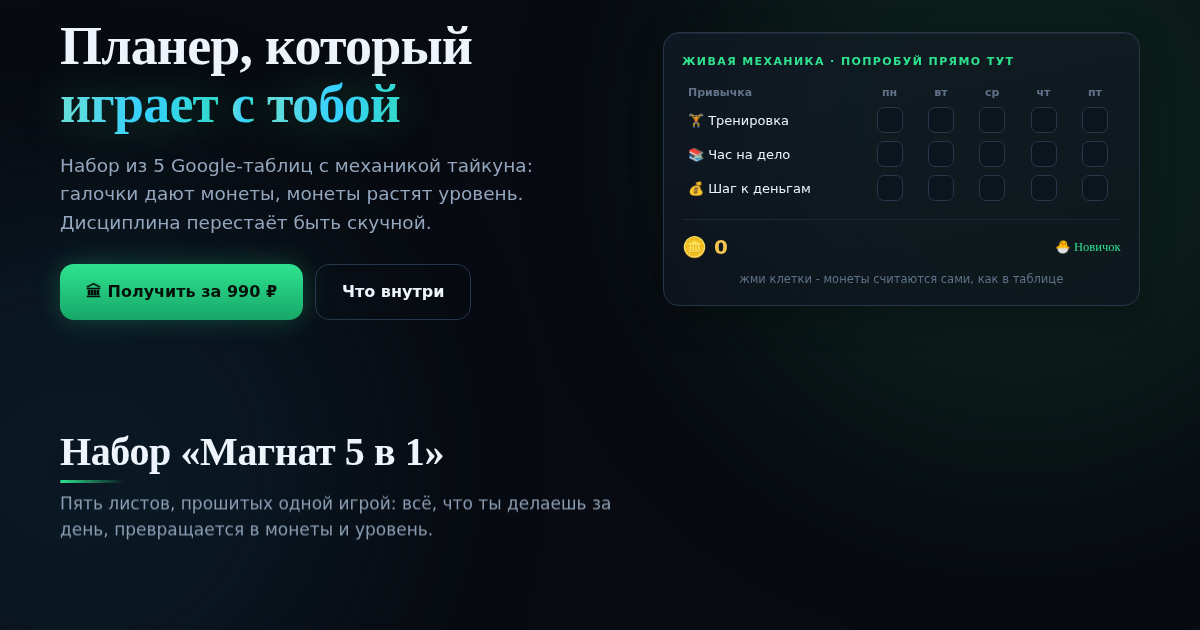
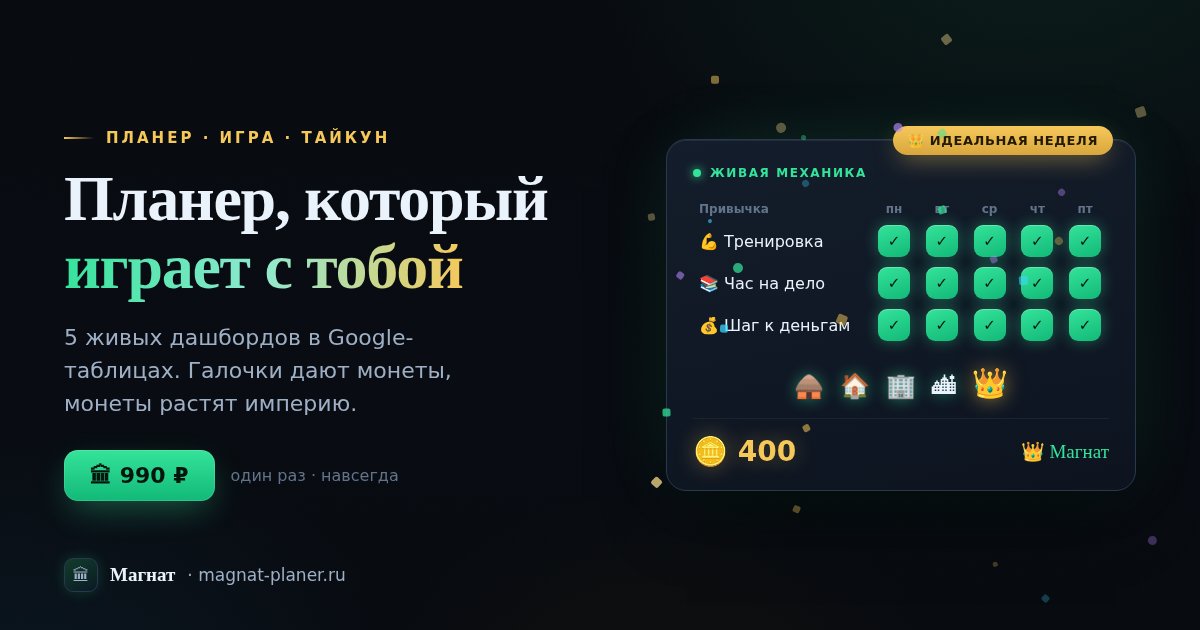
Эмоция продукта: демо-игра с империей, празднование уровней, новое OG
Лендинг - демо в hero стало полной мини-игрой:
- Монеты летят дугой в кошелёк при каждой галочке (Web Animations)
- 5 уровней в демо-масштабе: путь Новичок → Магнат за 15 кликов
- Мини-империя строится под таблицей: здания загораются с уровнями
- Level-up: пляшущий бейдж + конфетти; идеальная неделя = золотой салют
- Пульс-приглашение на первой клетке (исчезает после первого клика)
- Растущий skyline с парящей короной в финальном CTA
- Фикс: кнопка финала прилипала сбоку к заголовку (inline-элементы)

Приложение - дофамин ежедневного использования:
- Празднование нового уровня: оверлей со зданием + конфетти
  (пересечение уровня отслеживается в состоянии, первый рендер тихий)
- Монета летит в кошелёк при отметке привычки (чипы и календарь)
- Конфетти при покупке награды в магазине

Общее:
- og.png перерисован: состояние победы (Магнат, 400 монет, империя,
  идеальная неделя) вместо скриншота пустой таблицы с нулями
- ::selection и :focus-visible в фирменном изумруде на обеих страницах
- Уровни дисциплины откликаются на hover
- Все эффекты уважают prefers-reduced-motion

Claude-Session: https://claude.ai/code/session_01WrphPXi8zMQQBwtpcqwAAq

diff --git a/index.html b/index.html
@@ -40,6 +40,8 @@
   }
   *{box-sizing:border-box; margin:0; padding:0}
   html{scroll-behavior:smooth}
+  ::selection{background:#34e39a3d; color:var(--ink);}
+  :focus-visible{outline:2px solid var(--emerald); outline-offset:2px; border-radius:4px;}
   body{background:var(--bg); color:var(--ink); font-family:var(--fb); line-height:1.55;
     -webkit-font-smoothing:antialiased; overflow-x:hidden; position:relative;}
   body::before{content:""; position:fixed; inset:0; z-index:-2; pointer-events:none;
@@ -156,9 +158,17 @@
   @keyframes bump{40%{transform:scale(1.24)}}
   .demo .lvl{font-size:12.5px; color:var(--emerald); font-family:var(--fd);}
   .demo .hint{font-size:11.5px; color:var(--mut2); margin-top:9px; text-align:center;}
-  .fly{position:absolute; font-size:13px; font-weight:800; color:var(--gold); pointer-events:none; z-index:5;
-    animation:flyup .85s ease-out forwards; text-shadow:0 0 10px #f6c85a99;}
-  @keyframes flyup{0%{opacity:0; transform:translateY(4px) scale(.8)} 25%{opacity:1} 100%{opacity:0; transform:translateY(-38px) scale(1.18)}}
+  /* мини-империя в демо: здания загораются с уровнями */
+  .demo .emp{display:flex; justify-content:center; align-items:flex-end; gap:12px; margin-top:13px;}
+  .demo .emp i{font-style:normal; font-size:17px; line-height:1; filter:grayscale(1); opacity:.25;
+    transition:filter .45s, opacity .45s;}
+  .demo .emp i.on{filter:none; opacity:1; text-shadow:0 0 13px #34e39a66;}
+  .demo .emp i.pop, .demo .lvl.pop{animation:epop .65s var(--ease);}
+  @keyframes epop{35%{transform:scale(1.55) rotate(-6deg)}}
+  /* пульс-приглашение на первой клетке */
+  .cell.nudge::after{content:""; position:absolute; inset:-5px; border-radius:12px; border:2px solid var(--emerald);
+    animation:nudgep 1.7s ease-out infinite; pointer-events:none;}
+  @keyframes nudgep{0%{opacity:.9; transform:scale(.7)} 70%,100%{opacity:0; transform:scale(1.3)}}
 
   /* ====== планеры: КАРУСЕЛЬ карточек с рамкой «настоящей Google-таблицы» ====== */
   .pcarousel{position:relative; margin-top:34px;}
@@ -333,6 +343,7 @@
   .ladder .lv{background:linear-gradient(180deg,#0f1826,#0c111b); border:1px solid var(--line2); border-radius:13px; padding:16px 10px 14px; text-align:center; position:relative; overflow:hidden;
     transform:translateY(16px); opacity:0; transition:transform .6s var(--ease), opacity .6s ease; transition-delay:calc(var(--i,0)*90ms);}
   .disc.in .ladder .lv{transform:none; opacity:1;}
+  .disc.in .ladder .lv:hover{transform:translateY(-4px); border-color:#1c7a54; transition-delay:0s;}
   .ladder .lv .em{font-size:26px;}
   .ladder .lv .nm{font-family:var(--fd); font-size:14px; margin-top:6px;}
   .ladder .lv .cn{font-size:10.5px; color:var(--mut2); margin-top:3px; font-variant-numeric:tabular-nums;}
@@ -437,6 +448,15 @@
   .final{text-align:center; padding:92px 0;}
   .final h2{font-size:clamp(28px,5vw,46px);}
   .final .btn{margin-top:28px;}
+  /* растущий город: путь Новичок → Магнат одним взглядом */
+  .final .skyline{display:flex; justify-content:center; align-items:flex-end; gap:16px; margin-bottom:22px;}
+  .final .skyline i{font-style:normal; line-height:1; opacity:.45; filter:grayscale(.65);}
+  .final .skyline i:nth-child(1){font-size:20px}
+  .final .skyline i:nth-child(2){font-size:26px}
+  .final .skyline i:nth-child(3){font-size:32px}
+  .final .skyline i:nth-child(4){font-size:39px}
+  .final .skyline i:nth-child(5){font-size:47px; opacity:1; filter:none; text-shadow:0 0 30px #f6c85a77; animation:crownf 4.5s ease-in-out infinite;}
+  @keyframes crownf{50%{transform:translateY(-6px)}}
 
   footer{border-top:1px solid var(--line); padding:32px 0 36px; color:var(--mut2); font-size:12.5px; line-height:1.9; text-align:center;}
   footer .flinks{display:flex; flex-direction:column; gap:6px; margin-bottom:18px;}
@@ -542,11 +562,12 @@
       <tr><td class="nm">📚 Час на дело</td><td><span class="cell" data-c="25"></span></td><td><span class="cell" data-c="25"></span></td><td><span class="cell" data-c="25"></span></td><td><span class="cell" data-c="25"></span></td><td><span class="cell" data-c="25"></span></td></tr>
       <tr><td class="nm">💰 Шаг к деньгам</td><td><span class="cell" data-c="30"></span></td><td><span class="cell" data-c="30"></span></td><td><span class="cell" data-c="30"></span></td><td><span class="cell" data-c="30"></span></td><td><span class="cell" data-c="30"></span></td></tr>
     </table>
+    <div class="emp" id="dEmp"><i class="on">🛖</i><i>🏠</i><i>🏢</i><i>🏙</i><i>👑</i></div>
     <div class="tally">
       <div class="coins" id="dCoins">🪙 0</div>
       <div class="lvl" id="dLvl">🐣 Новичок</div>
     </div>
-    <div class="hint">жми клетки - монеты считаются сами, как в таблице</div>
+    <div class="hint" id="dHint">жми клетки - монеты капают, империя строится</div>
   </div></div>
 </div></header>
 
@@ -945,8 +966,9 @@
 </div></section>
 
 <section class="final"><div class="wrap">
+  <div class="skyline rv"><i>🛖</i><i>🏠</i><i>🏢</i><i>🏙</i><i>👑</i></div>
   <h2 class="rv uline">Хватит начинать с понедельника.<br>Начни строить империю сегодня.</h2>
-  <a href="#" class="btn btn-p rv" data-buy>🏛 Получить «Магнат»</a>
+  <div><a href="#" class="btn btn-p rv" data-buy>🏛 Получить «Магнат»</a></div>
 </div></section>
 
 <footer><div class="wrap">
@@ -1020,24 +1042,69 @@ var RM = matchMedia("(prefers-reduced-motion: reduce)").matches;
   }
 })();
 
-/* живая демо-сетка в hero */
+/* конфетти: DOM-частицы через Web Animations (без библиотек) */
+function confettiBurst(x,y,n,colors){
+  if(RM || !document.body.animate) return;
+  for(let i=0;i<n;i++){
+    let p=document.createElement("i"), s=4+Math.random()*5;
+    p.style.cssText="position:fixed;z-index:70;pointer-events:none;font-style:normal;left:"+x+"px;top:"+y+"px;width:"+s+"px;height:"+s+"px;border-radius:"+(Math.random()<.4?"50%":"2px")+";background:"+colors[i%colors.length];
+    document.body.appendChild(p);
+    let a=Math.random()*Math.PI*2, v=50+Math.random()*150,
+        dx=Math.cos(a)*v, dy=Math.sin(a)*v-85;
+    p.animate([
+      {transform:"translate(0,0) rotate(0deg)", opacity:1},
+      {transform:"translate("+dx+"px,"+(dy+175)+"px) rotate("+((Math.random()*2-1)*540)+"deg)", opacity:0}
+    ],{duration:950+Math.random()*500, easing:"cubic-bezier(.2,.6,.4,1)"}).onfinish=function(){ p.remove(); };
+  }
+}
+
+/* живая демо-игра в hero: монеты летят в кошелёк, империя строится, уровни празднуются */
 (function(){
-  var LVL=[["🐣 Новичок",0],["🚀 Стартапер",300],["💼 Предприниматель",1500]];
-  var coins=0, el=document.getElementById("dCoins"), lv=document.getElementById("dLvl");
-  document.querySelectorAll(".cell").forEach(function(c){
+  /* демо-шкала уровней: сжата, чтобы путь до Магната проживался за 15 кликов */
+  var LVL=[["🐣 Новичок",0],["🚀 Стартапер",100],["💼 Предприниматель",250],["🏢 Директор",350],["👑 Магнат",400]];
+  var coins=0, li=0;
+  var elC=document.getElementById("dCoins"), lv=document.getElementById("dLvl"),
+      hint=document.getElementById("dHint"),
+      emp=[].slice.call(document.querySelectorAll("#dEmp i"));
+  function flyCoin(from){
+    if(RM || !from.animate) return;
+    var r1=from.getBoundingClientRect(), r2=elC.getBoundingClientRect();
+    var c=document.createElement("div"); c.textContent="🪙";
+    c.style.cssText="position:fixed;z-index:70;pointer-events:none;font-size:14px;line-height:1;left:"+(r1.left+r1.width/2-8)+"px;top:"+(r1.top+r1.height/2-8)+"px;";
+    document.body.appendChild(c);
+    var dx=(r2.left+26)-(r1.left+r1.width/2), dy=(r2.top+r2.height/2)-(r1.top+r1.height/2);
+    c.animate([
+      {transform:"translate(0,0) scale(1)", opacity:1},
+      {transform:"translate("+(dx*.45)+"px,"+(dy*.45-46)+"px) scale(1.25)", offset:.55},
+      {transform:"translate("+dx+"px,"+dy+"px) scale(.45)", opacity:.3}
+    ],{duration:650, easing:"cubic-bezier(.25,.7,.3,1)"}).onfinish=function(){ c.remove(); };
+  }
+  var cells=[].slice.call(document.querySelectorAll(".cell"));
+  if(cells[0]) cells[0].classList.add("nudge");
+  cells.forEach(function(c){
     c.addEventListener("click", function(){
+      if(cells[0].classList.contains("nudge")) cells.forEach(function(x){x.classList.remove("nudge");});
       var v=parseInt(c.dataset.c,10);
       var on=c.classList.toggle("on");
       coins+=on?v:-v;
-      el.textContent="🪙 "+coins.toLocaleString("ru-RU");
-      el.classList.remove("bump"); void el.offsetWidth; el.classList.add("bump");
-      if(on && !RM){
-        var f=document.createElement("span"); f.className="fly"; f.textContent="+"+v;
-        f.style.left=(c.offsetLeft+2)+"px"; f.style.top=(c.offsetTop-6)+"px";
-        c.closest(".demo").appendChild(f); setTimeout(function(){f.remove()},870);
+      if(on) flyCoin(c);
+      elC.textContent="🪙 "+coins.toLocaleString("ru-RU");
+      elC.classList.remove("bump"); void elC.offsetWidth; elC.classList.add("bump");
+      var ni=0; for(var i=0;i<LVL.length;i++) if(coins>=LVL[i][1]) ni=i;
+      if(ni!==li){
+        var up=ni>li; li=ni;
+        lv.textContent=LVL[ni][0];
+        emp.forEach(function(e,k){ e.classList.toggle("on", k<=ni); });
+        if(up){
+          lv.classList.remove("pop"); void lv.offsetWidth; lv.classList.add("pop");
+          var slot=emp[ni]; slot.classList.remove("pop"); void slot.offsetWidth; slot.classList.add("pop");
+          var r=slot.getBoundingClientRect();
+          confettiBurst(r.left+r.width/2, r.top+r.height/2, ni===4?70:26,
+            ni===4 ? ["#f6c85a","#ffdf8e","#fff3d1","#d8a63d"]
+                   : ["#34e39a","#f6c85a","#3dd6ff","#b98bff"]);
+          if(ni===4 && hint) hint.innerHTML="👑 <b style=\"color:var(--gold)\">Идеальная неделя!</b> Представь это чувство каждый вечер.";
+        }
       }
-      var t=LVL[0][0]; for(var i=0;i<LVL.length;i++) if(coins>=LVL[i][1]) t=LVL[i][0];
-      lv.textContent=t;
     });
   });
 })();

diff --git a/app.html b/app.html
@@ -13,6 +13,8 @@
     --fd:Georgia,"Times New Roman",serif; --fb:system-ui,-apple-system,"Segoe UI",Roboto,sans-serif;
   }
   *{box-sizing:border-box; margin:0; padding:0}
+  ::selection{background:#2fe38f3d; color:var(--ink);}
+  :focus-visible{outline:2px solid var(--emerald); outline-offset:2px; border-radius:4px;}
   body{background:radial-gradient(1100px 620px at 82% -6%,#123044 0%,transparent 55%),radial-gradient(800px 560px at 6% 3%,#0f2a20 0%,transparent 55%),linear-gradient(180deg,var(--bg2),var(--bg));
     color:var(--ink); font-family:var(--fb); line-height:1.45; -webkit-font-smoothing:antialiased; min-height:100vh; padding-bottom:80px;}
   .wrap{max-width:1120px; margin:0 auto; padding:0 16px;}
@@ -226,6 +228,53 @@ const monthEntries=()=>S.finance.entries.filter(e=>e.date.slice(0,7)===CURMONTH)
 
 let toastT; function toast(m){const t=document.getElementById("toast");t.textContent=m;t.classList.add("show");clearTimeout(toastT);toastT=setTimeout(()=>t.classList.remove("show"),1900);}
 
+// ---- эмоции: конфетти, полёт монеты, празднование уровня ----
+const RM=matchMedia("(prefers-reduced-motion: reduce)").matches;
+function confettiBurst(x,y,n,colors){
+  if(RM || !document.body.animate) return;
+  for(let i=0;i<n;i++){
+    const p=document.createElement("i"), s=4+Math.random()*5;
+    p.style.cssText=`position:fixed;z-index:80;pointer-events:none;font-style:normal;left:${x}px;top:${y}px;width:${s}px;height:${s}px;border-radius:${Math.random()<.4?"50%":"2px"};background:${colors[i%colors.length]}`;
+    document.body.appendChild(p);
+    const a=Math.random()*Math.PI*2, v=50+Math.random()*160,
+          dx=Math.cos(a)*v, dy=Math.sin(a)*v-90;
+    p.animate([
+      {transform:"translate(0,0) rotate(0deg)", opacity:1},
+      {transform:`translate(${dx}px,${dy+180}px) rotate(${(Math.random()*2-1)*540}deg)`, opacity:0}
+    ],{duration:950+Math.random()*500, easing:"cubic-bezier(.2,.6,.4,1)"}).onfinish=()=>p.remove();
+  }
+}
+function flyCoinToWallet(fromEl){
+  const w=document.getElementById("wallet"); if(RM||!w||!fromEl.animate) return;
+  const chip=w.closest(".chip"), r1=fromEl.getBoundingClientRect(), r2=chip.getBoundingClientRect();
+  const c=document.createElement("div"); c.textContent="🪙";
+  c.style.cssText=`position:fixed;z-index:80;pointer-events:none;font-size:15px;line-height:1;left:${r1.left+r1.width/2-8}px;top:${r1.top+r1.height/2-8}px;`;
+  document.body.appendChild(c);
+  const dx=(r2.left+r2.width/2)-(r1.left+r1.width/2), dy=(r2.top+r2.height/2)-(r1.top+r1.height/2);
+  c.animate([
+    {transform:"translate(0,0) scale(1)", opacity:1},
+    {transform:`translate(${dx*.45}px,${dy*.45-48}px) scale(1.3)`, offset:.55},
+    {transform:`translate(${dx}px,${dy}px) scale(.4)`, opacity:.3}
+  ],{duration:620, easing:"cubic-bezier(.25,.7,.3,1)"}).onfinish=()=>{
+    c.remove();
+    if(chip.animate) chip.animate([{transform:"scale(1)"},{transform:"scale(1.16)"},{transform:"scale(1)"}],{duration:260});
+  };
+}
+function celebrateLevel(li){
+  const [name,,emoji]=LEVELS[li];
+  const ovl=el(`<div class="ovl" style="z-index:70"><div class="modal" style="text-align:center;max-width:330px">
+    <div style="font-size:62px;line-height:1;filter:drop-shadow(0 0 20px #2fe38f77)">${emoji}</div>
+    <div style="color:var(--emerald);font-size:11px;letter-spacing:2.2px;text-transform:uppercase;margin-top:12px">Новый уровень</div>
+    <h4 style="font-size:25px;margin-top:2px">${name}</h4>
+    <p style="color:var(--mut);font-size:13.5px;margin:8px 0 0">Твоя империя стала больше. Дисциплина платит.</p>
+    <div class="btns"><button class="ok">Строим дальше 🚀</button></div></div></div>`);
+  document.body.appendChild(ovl);
+  confettiBurst(innerWidth/2, innerHeight*0.32, 64, ["#2fe38f","#f5c451","#35d0ff","#b06bff"]);
+  const close=()=>ovl.remove();
+  ovl.querySelector(".ok").onclick=close;
+  ovl.onclick=e=>{if(e.target===ovl)close();};
+}
+
 // ---- canvas helpers ----
 function setup(cv,h){const dpr=window.devicePixelRatio||1,w=cv.getBoundingClientRect().width||200;cv.width=w*dpr;cv.height=h*dpr;cv.style.height=h+"px";const c=cv.getContext("2d");c.setTransform(dpr,0,0,dpr,0,0);return{c,w,h};}
 function donut(cv,frac,color){const {c,w,h}=setup(cv,150);const cx=w/2,cy=h/2,r=Math.min(w,h)/2-9;c.lineWidth=15;c.lineCap="round";c.strokeStyle="#182230";c.beginPath();c.arc(cx,cy,r,0,7);c.stroke();if(frac>0){c.strokeStyle=color;c.shadowColor=color;c.shadowBlur=13;c.beginPath();c.arc(cx,cy,r,-Math.PI/2,-Math.PI/2+Math.PI*2*Math.min(1,frac));c.stroke();c.shadowBlur=0;}}
@@ -325,7 +374,7 @@ function vHome(root){
     chip.querySelector(".nm").textContent=`${h.ico} ${h.name}`;
     chip.addEventListener("click",()=>{
       const arr=checksOf(TODAY).slice(),i=arr.indexOf(h.id);
-      if(i>=0)arr.splice(i,1);else arr.push(h.id);
+      if(i>=0)arr.splice(i,1);else{arr.push(h.id);flyCoinToWallet(chip);}
       if(arr.length)S.checks[TODAY]=arr;else delete S.checks[TODAY];
       save();render();
     });
@@ -364,7 +413,8 @@ function vHabits(root){
   root.querySelectorAll(".hcell").forEach(c=>c.addEventListener("click",()=>{
     const ds=c.dataset.d; if(ds>TODAY){toast("Будущий день ещё не наступил 🙂");return;}
     const hid=+c.dataset.h,arr=checksOf(ds).slice(),i=arr.indexOf(hid);
-    if(i>=0)arr.splice(i,1);else arr.push(hid); if(arr.length)S.checks[ds]=arr;else delete S.checks[ds]; save(); render();
+    if(i>=0)arr.splice(i,1);else{arr.push(hid);flyCoinToWallet(c);}
+    if(arr.length)S.checks[ds]=arr;else delete S.checks[ds]; save(); render();
   }));
   root.querySelectorAll(".hedit").forEach(td=>td.addEventListener("click",()=>editHabit(+td.dataset.edit)));
   root.querySelector("#addHabit").addEventListener("click",addHabit);
@@ -512,7 +562,10 @@ function vShop(root){
   REWARDS.forEach(([ico,name,cost],idx)=>{
     const bought=S.bought.includes(idx);
     const it=el(`<div class="si${bought?" bought":(w>=cost?" afford":"")}"><div class="i">${ico}</div><div class="n">${bought?"Куплено ✓":name}</div><div class="pr">🪙 ${nf(cost)}</div></div>`);
-    it.addEventListener("click",()=>{ if(bought)return; if(wallet()<cost){toast("Не хватает монет 🪙");return;} S.bought.push(idx);S.spent+=cost;save();render();toast("Награда куплена! Отдыхай честно 🎉"); });
+    it.addEventListener("click",()=>{ if(bought)return; if(wallet()<cost){toast("Не хватает монет 🪙");return;}
+      const r=it.getBoundingClientRect();
+      confettiBurst(r.left+r.width/2, r.top+r.height/2, 30, ["#f5c451","#ffdf8e","#2fe38f","#35d0ff"]);
+      S.bought.push(idx);S.spent+=cost;save();render();toast("Награда куплена! Отдыхай честно 🎉"); });
     grid.appendChild(it);
   });
 }
@@ -614,6 +667,10 @@ let cur="home";
 const RENDER={home:vHome,habits:vHabits,tasks:vTasks,money:vMoney,body:vBody,shop:vShop};
 function render(){
   const xp=totalXP(),li=levelIdx(xp);
+  // празднуем пересечение уровня вверх (первый рендер - тихо запоминаем)
+  if(S.lastLvl==null) S.lastLvl=li;
+  else if(li>S.lastLvl){ S.lastLvl=li; save(); celebrateLevel(li); }
+  else if(li<S.lastLvl){ S.lastLvl=li; }
   document.getElementById("wallet").textContent=nf(wallet());
   document.getElementById("lvlChip").textContent=LEVELS[li][0];
   document.querySelectorAll(".tab").forEach(t=>t.classList.toggle("on",t.dataset.t===cur));